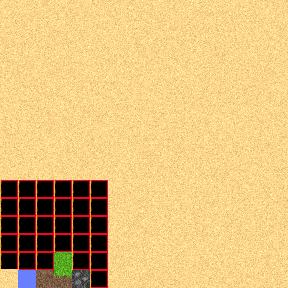
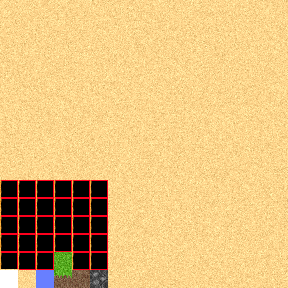
particles perfected and fixed

Changed region(s): [[0.0, 0.9375, 0.1875, 1.0], [0.25, 0.9375, 0.375, 1.0]]

diff --git a/src/game.cpp b/src/game.cpp
@@ -1312,30 +1312,33 @@ void Game::initializeShaders() {
             void main() {
 
                 float timePassed = time - timeCreated;
+                
 
-                float percentPassed = min(timePassed/lifetime, 1.0f);
+                float percentPassed = min(timePassed/3.0f, 1.0f);
 
                 vec3 realPosition = mix(instancePosition, destination, min(1.0f, percentPassed*5.0f));
 
                 realPosition.y = max( floorAtDest, realPosition.y - timePassed * gravity);
-
-                pPassed = percentPassed;
 
                 // Calculate the billboard orientation
                 vec3 look = normalize(realPosition - camPos); // Direction from camera to quad
                 vec3 right = normalize(cross(vec3(0.0, 1.0, 0.0), look)); // Right vector
                 vec3 up = cross(look, right); // Up vector
 
+                pPassed = min(timePassed/lifetime, 1.0f);
+
 
                 // Apply billboard transformation
                 vec3 billboardedPosition = realPosition + (vertexPosition.x * right + vertexPosition.y * up);
 
+                float distance = pow(distance(instancePosition, camPos)/(5), 2)/5.0f;
+
                 // Transform position to clip space
-                gl_Position = p * v * m * vec4(billboardedPosition, 1.0);
+                gl_Position = p * v * m * vec4(billboardedPosition - vec3(0.0f, distance, 0.0f), 1.0);
 
 
 
-                vec2 baseUV = vec2(mod(blockID, 16.0f)/16.0f, floor(blockID/16.0f));
+                vec2 baseUV = vec2(mod(blockID, 16.0f)/16.0f, 1.0f - floor(blockID/16.0f));
 
                 // Selecting UV based on cornerID
                 if (cornerID == 0.0) {
@@ -1343,9 +1346,9 @@ void Game::initializeShaders() {
                 } else if (cornerID == 1.0) {
                     tcoord = vec2(baseUV.x + (1.0f/64.0f), baseUV.y);
                 } else if (cornerID == 2.0) {
-                    tcoord = vec2(baseUV.x + (1.0f/64.0f), baseUV.y + (1.0f/64.0f));
+                    tcoord = vec2(baseUV.x + (1.0f/64.0f), baseUV.y - (1.0f/64.0f));
                 } else if (cornerID == 3.0) {
-                    tcoord = vec2(baseUV.x, baseUV.y + (1.0f/64.0f));
+                    tcoord = vec2(baseUV.x, baseUV.y - (1.0f/64.0f));
                 }
             }
         )glsl",
@@ -1363,11 +1366,9 @@ void Game::initializeShaders() {
                 if(texColor.a < 0.1) {
                     discard;
                 }
-
                 if(pPassed >= 1.0f) {
                     discard;
                 }
-
             }
 
         )glsl",
@@ -1397,9 +1398,38 @@ std::vector<glm::vec3> Game::randomSpotsAroundCube(const glm::vec3& center, int 
 
 void Game::blockBreakParticles(BlockCoord here) {
     glm::vec3 center(here.x, here.y, here.z);
-    std::vector<glm::vec3> spots = randomSpotsAroundCube(center, 25);
+    std::vector<glm::vec3> spots = randomSpotsAroundCube(center, 15);
 
     int blockID = voxelWorld.blockAt(here);
+
+    std::random_device rd;
+    std::mt19937 gen(rd());
+    std::uniform_real_distribution<float> dis(-1.0f, 1.0f);
+    
+    float time = static_cast<float>(glfwGetTime());
+    for(Particle &particle : particleDisplayData) {
+
+        BlockCoord possiblyThisBlock(
+            std::round(particle.destination.x),
+            std::round(particle.floorAtDest-0.5f),
+            std::round(particle.destination.z)
+        );
+        if(possiblyThisBlock == here) {
+
+            float timePassed = time - particle.timeCreated;
+            float percentPassed = std::min(timePassed/3.0f, 1.0f);
+            glm::vec3 realPosition = glm::mix(particle.position, particle.destination, std::min(1.0f, percentPassed*5.0f));
+
+            realPosition.y = std::max(particle.floorAtDest, realPosition.y - timePassed * particle.gravity);
+            
+            float newFloorAtDest = determineFloorBelowHere(center, here);
+            particle.floorAtDest = newFloorAtDest;
+            particle.position = realPosition;
+            particle.destination = realPosition+glm::vec3(0, 0.5, 0);
+            particle.timeCreated = time;
+            particle.lifetime = std::max(particle.lifetime - timePassed, 0.1f);
+        }
+    }
 
 
     for(glm::vec3 &spot : spots) {
@@ -1407,7 +1437,7 @@ void Game::blockBreakParticles(BlockCoord here) {
         glm::vec3 dest = spot + dir * 3.0f;
 
         float floorAtDest = determineFloorBelowHere(dest, here);
-        float lifetime = 3.0f;
+        float lifetime = 2.0f + dis(gen);
         float timeCreated = static_cast<float>(glfwGetTime());
         float gravity = 8.0f;
 
@@ -1829,7 +1859,7 @@ void Game::stepTextureAnim() {
     //Water
     glm::ivec4 baseColor(0, 45, 100, 210);
     glm::ivec2 coord(0,0);
-    int startY = 270, startX = 18, squareSize = 18;
+    int startY = 270, startX = 36, squareSize = 18;
     for(int y = startY; y < startY + squareSize; ++y) {
         for(int x = startX; x < startX + squareSize; ++x) {
             int i = (y * width + x) * chans;

diff --git a/src/game/voxelworld.cpp b/src/game/voxelworld.cpp
@@ -239,25 +239,25 @@ void VoxelWorld::rebuildChunk(BlockChunk *chunk, ChunkCoord newPosition, bool im
         TextureFace(0,0),//sides
         TextureFace(0,0),//bottom
         }, 
-        {TextureFace(0,0),
-        TextureFace(0,0),
-        TextureFace(0,0),
-        }, 
         {TextureFace(1,0),
         TextureFace(1,0),
         TextureFace(1,0),
         }, 
-        {TextureFace(3,1),
-        TextureFace(3,0),
-        TextureFace(2,0),
-        }, 
         {TextureFace(2,0),
         TextureFace(2,0),
         TextureFace(2,0),
-        },
+        }, 
+        {TextureFace(3,1),
+        TextureFace(3,0),
+        TextureFace(4,0),
+        }, 
         {TextureFace(4,0),
         TextureFace(4,0),
         TextureFace(4,0),
+        },
+        {TextureFace(5,0),
+        TextureFace(5,0),
+        TextureFace(5,0),
         }
     };
 
